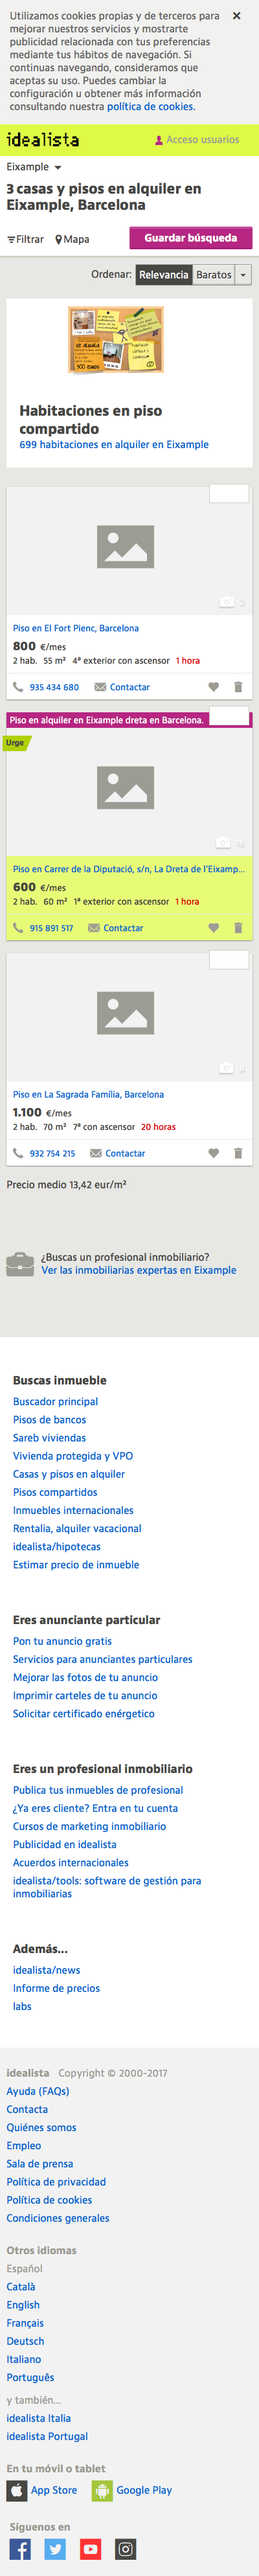
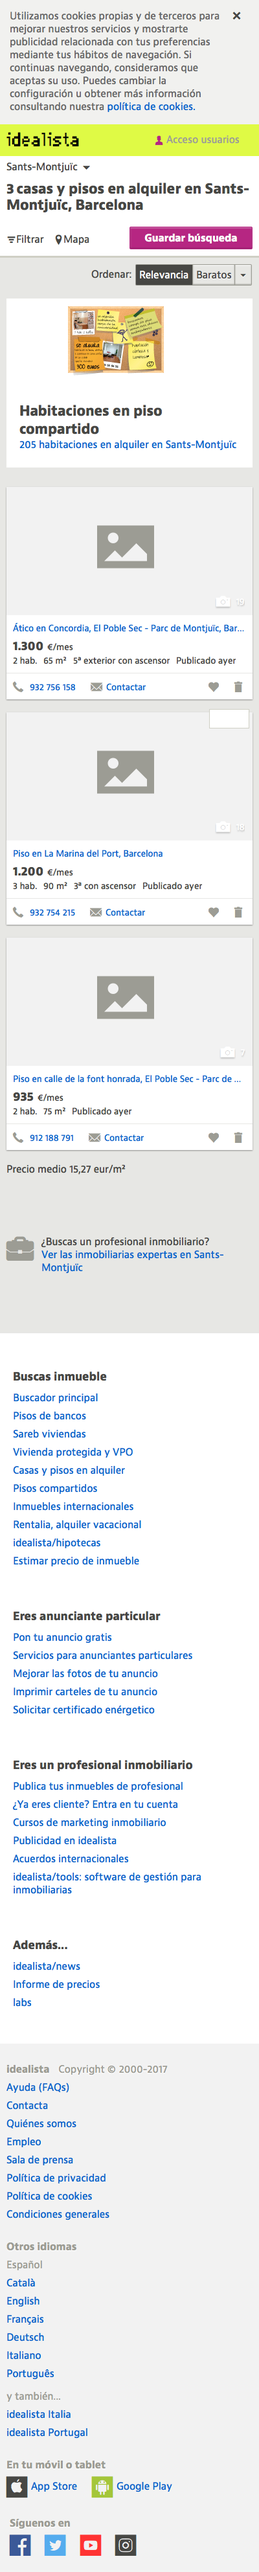
Added more URLs to the collection

diff --git a/index.js b/index.js
@@ -1,13 +1,14 @@
 /* eslint-disable */
 var page = require('webpage').create();
 
-var ZONES_IDEALISTA = [
-    "https://www.idealista.com/alquiler-viviendas/barcelona/les-corts/les-corts/con-precio-hasta_1300,de-dos-dormitorios,de-tres-dormitorios,de-cuatro-cinco-habitaciones-o-mas,publicado_ultimas-24-horas/",
-    "https://www.idealista.com/alquiler-viviendas/barcelona/eixample/con-precio-hasta_1300,de-dos-dormitorios,de-tres-dormitorios,de-cuatro-cinco-habitaciones-o-mas,publicado_ultimas-24-horas/",
-];
+var ZONE_LES_CORTS = "https://www.idealista.com/alquiler-viviendas/barcelona/les-corts/les-corts/con-precio-hasta_1300,de-dos-dormitorios,de-tres-dormitorios,de-cuatro-cinco-habitaciones-o-mas,publicado_ultimas-24-horas/";
+var ZONE_EIXAMPLE = "https://www.idealista.com/alquiler-viviendas/barcelona/eixample/con-precio-hasta_1300,de-dos-dormitorios,de-tres-dormitorios,de-cuatro-cinco-habitaciones-o-mas,publicado_ultimas-24-horas/";
+var ZONE_CIUTAT_VELLA = "https://www.idealista.com/alquiler-viviendas/barcelona/ciutat-vella/con-precio-hasta_1300,de-dos-dormitorios,de-tres-dormitorios,de-cuatro-cinco-habitaciones-o-mas,publicado_ultimas-24-horas/";
+var ZONE_GRACIA = "https://www.idealista.com/alquiler-viviendas/barcelona/gracia/con-precio-hasta_1300,de-dos-dormitorios,de-tres-dormitorios,de-cuatro-cinco-habitaciones-o-mas,publicado_ultimas-24-horas/";
+var ZONE_SANTS = "https://www.idealista.com/alquiler-viviendas/barcelona/sants-montjuic/con-precio-hasta_1300,de-dos-dormitorios,de-tres-dormitorios,de-cuatro-cinco-habitaciones-o-mas,publicado_ultimas-24-horas/";
 
 // ZONES_IDEALISTA.forEach(function(zone) {
-    page.open(ZONES_IDEALISTA[0], function(status) {
+    page.open(ZONE_SANTS, function(status) {
         console.log("Status: " + status);
         if(status === "success") {
             page.render('idealista.png');
